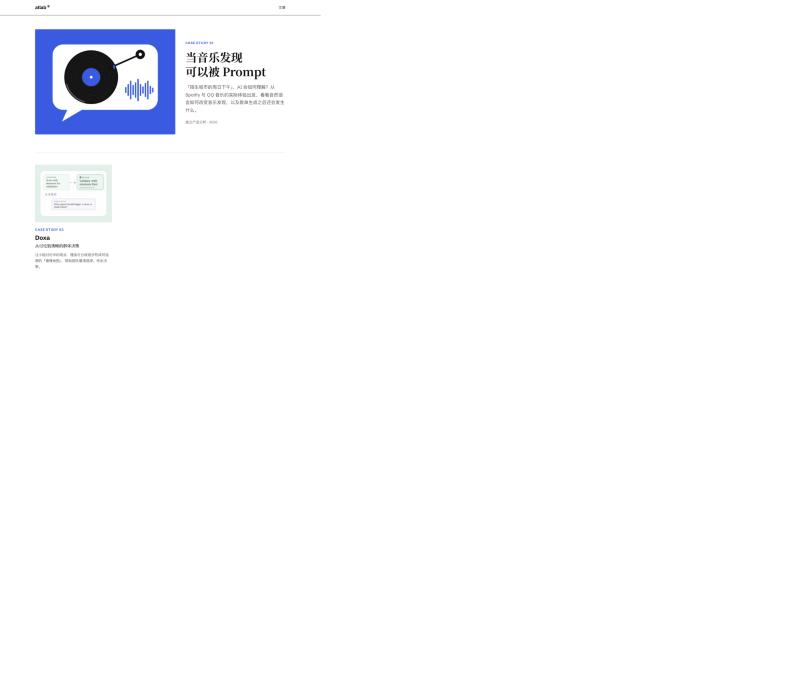
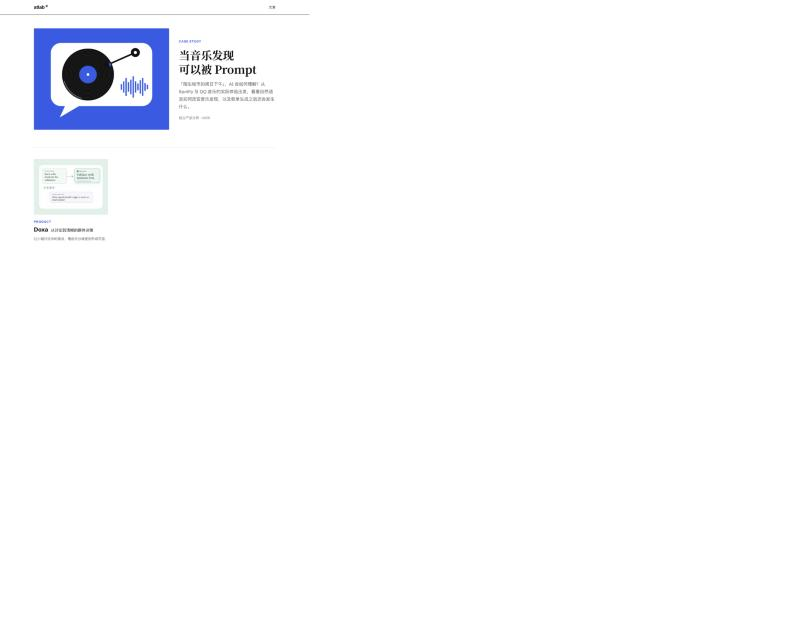
Home cards: labels CASE STUDY and PRODUCT, Doxa name and subtitle on one line

Changed region(s): [[0.0312, 0.0, 0.375, 0.2128], [0.0312, 0.2432, 0.1562, 0.3952]]

diff --git a/src/styles/site.css b/src/styles/site.css
@@ -23,7 +23,7 @@ a.feat{text-decoration:none}
 a.card{display:block;text-decoration:none;color:inherit}
 a.card .kind{display:block;margin-top:20px}
 a.card h3{font-size:24px;line-height:32px;font-weight:700;letter-spacing:-.01em;margin-top:8px}
-a.card .sub{font-size:16px;line-height:26px;color:var(--ink);margin-top:4px}
+a.card h3 .sub{font-size:16px;line-height:26px;font-weight:400;letter-spacing:0;margin-left:6px}
 a.card .desc{font-size:14px;line-height:24px;color:var(--ink-2);margin-top:10px}
 @media (max-width:900px){.cards{grid-template-columns:minmax(0,1fr);margin-top:56px;padding-top:40px}}
 /* 404：只有状态码和返回链接，沿用上面的字级 */
